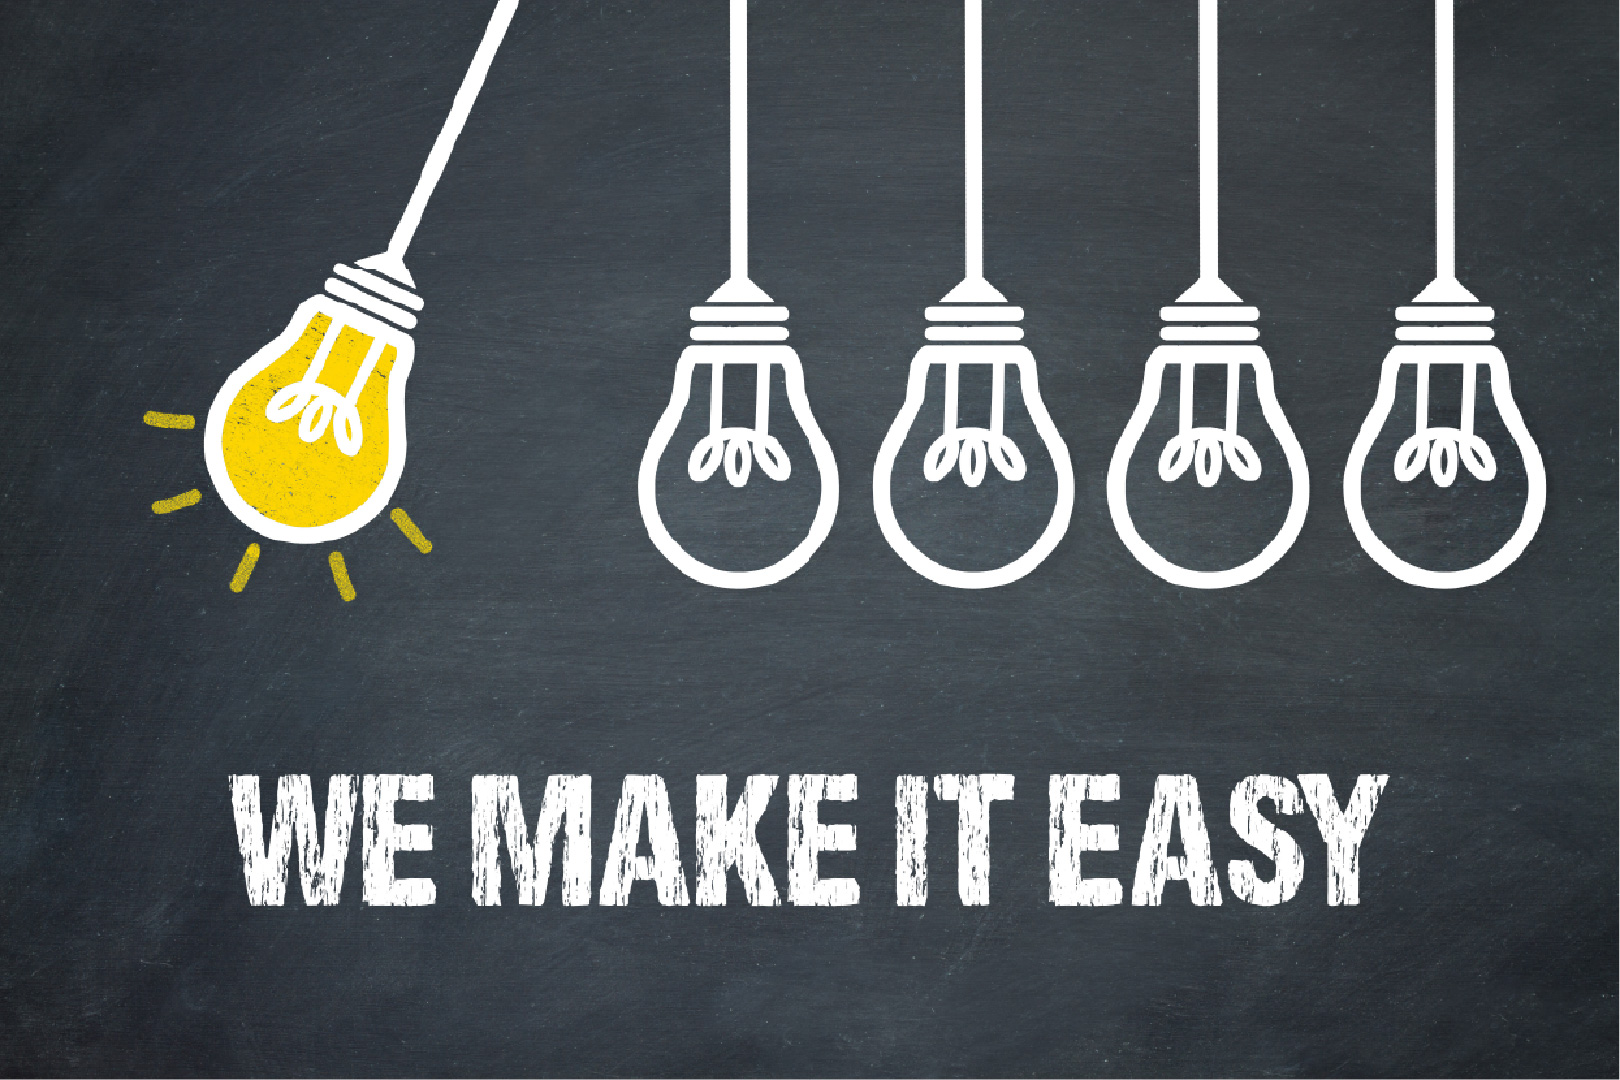
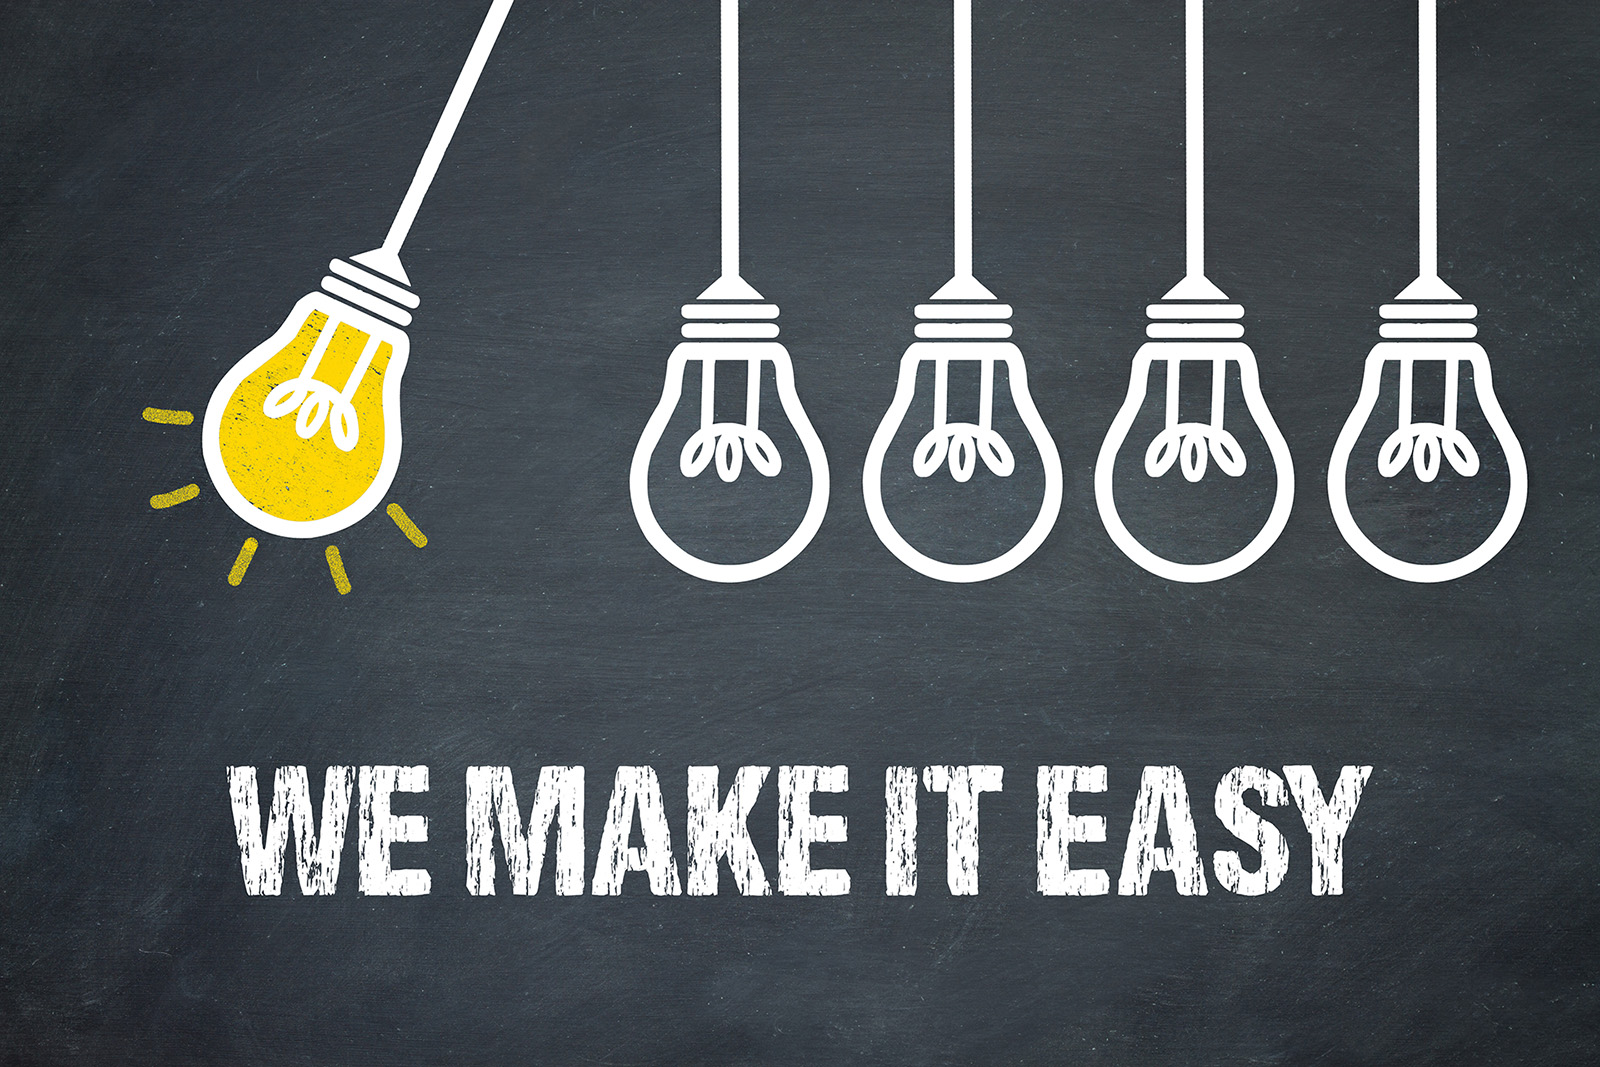
removed the projects link and also changed some of the pictures

diff --git a/index.html b/index.html
@@ -73,7 +73,7 @@
                 <ul>
                     <li><a class="active" href="/index.html">Home</a></li>
                     <li><a href="/about.html">About Us</a></li>
-                    <li><a href="/projects.html">Projects</a></li>
+                    <!-- <li><a href="/projects.html">Projects</a></li> -->
                     <!-- <li><a href="/reviews.html">Reviews</a></li> -->
                     <li><a href="/contact.html">Contact</a></li>
                 </ul>
@@ -158,44 +158,36 @@ Protect your data with secure, automated cloud backups that ensure your files ar
         <section id="sidebyside" class="sidebyside">
             <div class="container">
                 <div class="content">
-                    <h2 class="title">Trusted home builders for (main city) for over 20 years</h2>
-                     <p>
-                         Lorem ipsum dolor sit amet consectetur adipisicing elit. Quibusdam debitis dolor consectetur dolorem inventore modi tenetur ex odit, amet beatae ad, doloribus tempora quae ab nulla minus temporibus at veritatis!
-                     </p>
-                     <p>
-                         <strong>A list if you need it:</strong>
-                      </p>
-                     <ul>
+                    <h2>Trusted IT Support for Uniontown and Fayette County</h2>
+                        <p>
+                            Lancaster IT Services provides dependable technology support for homes and small businesses across Uniontown and the surrounding area. We help clients with computer setup, Wi-Fi and network issues, device troubleshooting, phone and telecom needs, cloud backups, and everyday tech support.
+                        </p>
+                        <ul>
                         <li>
                             <img aria-hidden="true" loading="lazy" decoding="async" src="/images/check.svg" alt="check mark" width="20" height="20">
-                            <span>List item about something, this one is going to two lines so you can see what it looks like</span>
-                        </li>
+                            Fast, friendly local service</li>
                         <li>
                             <img aria-hidden="true" loading="lazy" decoding="async" src="/images/check.svg" alt="check mark" width="20" height="20">
-                            <span>List item about something</span>
-                        </li>
+                            Residential and small business support</li>
                         <li>
                             <img aria-hidden="true" loading="lazy" decoding="async" src="/images/check.svg" alt="check mark" width="20" height="20">
-                            <span>List item about something</span>
-                        </li>
+                            Network, Wi-Fi, and device troubleshooting</li>
                         <li>
                             <img aria-hidden="true" loading="lazy" decoding="async" src="/images/check.svg" alt="check mark" width="20" height="20">
-                            <span>List item about something</span>
-                        </li>
+                            Cloud backup and data protection</li>
                         <li>
                             <img aria-hidden="true" loading="lazy" decoding="async" src="/images/check.svg" alt="check mark" width="20" height="20">
-                            <span>List item about something</span>
-                        </li>
-                    </ul>
-                     <p>
-                         Lorem ipsum dolor sit amet consectetur adipisicing elit. Accusantium saepe laborum nam consequuntur porro inventore odio? Quod autem alias ratione cum reiciendis qui quaerat, sequi voluptatum voluptatibus, iusto itaque sed ullam. Quis, maiores corrupti. Rerum quo laudantium vero magnam tempora!
-                     </p>
+                            Practical solutions without the jargon</li>
+                        </ul>
+                    <p>
+                    Our goal is simple: make technology easier to use, more secure, and less stressful. Whether you need ongoing IT help or a one-time fix, we deliver reliable service you can count on.
+                    </p>
                      <a class="button-solid" href="/about.html">More About Us</a>
                 </div>
                 <picture class="image-box">
-                      <source media="(max-width: 600px)" srcset="/images/cabinets2-m.jpg">
-                     <source media="(min-width: 601px)" srcset="/images/jenga.webp">
-                     <img aria-hidden="true" loading="lazy" decoding="async" src="/images/jenga.webp" alt="cabinets" width="400" height="662">
+                      <source media="(max-width: 600px)" srcset="/images/it_comm_left_frontpage.webp">
+                     <source media="(min-width: 601px)" srcset="/images/it_comm_left_frontpage.webp">
+                     <img aria-hidden="true" loading="lazy" decoding="async" src="/images/it_comm_left_frontpage.webp" alt="where it and communications meet" width="400" height="662">
                  </picture>
             </div>
        </section>
@@ -207,42 +199,36 @@ Protect your data with secure, automated cloud backups that ensure your files ar
         <section id="sidebyside-reverse">
             <div class="container">
                 <div class="content">
-                    <h2 class="title">Extra content, maybe talk about a main service</h2>
-                     <p>
-                         Lorem ipsum dolor sit amet consectetur adipisicing elit. Quibusdam debitis dolor consectetur dolorem inventore modi tenetur ex odit, amet beatae ad, doloribus tempora quae ab nulla minus temporibus at veritatis!
-                     </p>
-                     <p>
-                         <strong>A list if you need it:</strong>
-                      </p>
-                     <ul>
-                        <li>
-                            <img aria-hidden="true" loading="lazy" decoding="async" src="/images/check.svg" alt="check mark" width="20" height="20">
-                            <span>List item about something</span>
-                        </li>
-                        <li>
-                            <img aria-hidden="true" loading="lazy" decoding="async" src="/images/check.svg" alt="check mark" width="20" height="20">
-                            <span>List item about something</span>
-                        </li>
-                        <li>
-                            <img aria-hidden="true" loading="lazy" decoding="async" src="/images/check.svg" alt="check mark" width="20" height="20">
-                            <span>List item about something</span>
-                        </li>
-                        <li>
-                            <img aria-hidden="true" loading="lazy" decoding="async" src="/images/check.svg" alt="check mark" width="20" height="20">
-                            <span>List item about something</span>
-                        </li>
-                        <li>
-                            <img aria-hidden="true" loading="lazy" decoding="async" src="/images/check.svg" alt="check mark" width="20" height="20">
-                            <span>List item about something</span>
-                        </li>
+                   <h2>IT Solutions That Keep You Connected</h2>
+                    <p>
+                    From office networks to home technology, we provide IT services built around reliability, security, and peace of mind. We focus on solving problems quickly and setting your systems up the right way so you can stay productive.
+                    </p>
+
+                    <ul>
+                    <li>
+                        <img aria-hidden="true" loading="lazy" decoding="async" src="/images/check.svg" alt="check mark" width="20" height="20">
+                        Computer and device setup</li>
+                    <li>
+                        <img aria-hidden="true" loading="lazy" decoding="async" src="/images/check.svg" alt="check mark" width="20" height="20">
+                        Business network support</li>
+                    <li>
+                        <img aria-hidden="true" loading="lazy" decoding="async" src="/images/check.svg" alt="check mark" width="20" height="20">
+                        Residential Wi-Fi optimization</li>
+                    <li>
+                        <img aria-hidden="true" loading="lazy" decoding="async" src="/images/check.svg" alt="check mark" width="20" height="20">
+                        Cloud backup solutions</li>
+                    <li>
+                        <img aria-hidden="true" loading="lazy" decoding="async" src="/images/check.svg" alt="check mark" width="20" height="20">
+                        Telephone and telecom assistance</li>
                     </ul>
-                     <p>
-                         Lorem ipsum dolor sit amet consectetur adipisicing elit. Accusantium saepe laborum nam consequuntur porro inventore odio? Quod autem alias ratione cum reiciendis qui quaerat, sequi voluptatum voluptatibus, iusto itaque sed ullam. Quis, maiores corrupti. Rerum quo laudantium vero magnam tempora!
-                     </p>
+
+                    <p>
+                    We believe good IT service should be responsive, honest, and easy to understand. Lancaster IT Services gives you local support with practical recommendations that fit your needs and budget.
+                    </p>
                      <a class="button-solid" href="/contact.html">Get Free Quote</a>
                 </div>
                 <picture class="image-box">
-                     <source media="(max-width: 600px)" srcset="/images/we_make_it_easy-m.jpg">
+                     <source media="(max-width: 600px)" srcset="/images/laptop.webp">
                      <source media="(min-width: 601px)" srcset="/images/laptop.webp">
                      <img aria-hidden="true" loading="lazy" decoding="async" src="/images/laptop.webp" alt="cabinets" width="400" height="662">
                  </picture>
@@ -260,8 +246,8 @@ Protect your data with secure, automated cloud backups that ensure your files ar
             </div>
             <picture>
                 <source media="(max-width: 600px)" srcset="/images/we_make_it_easy.jpg">
-                <source media="(min-width: 601px)" srcset="/images/we_make_it_easy.jpg">
-                <img aria-hidden="true" loading="lazy" decoding="async" src="/images/we_make_it_easy.jpg" alt="we make it easy" width="1920" height="1280">
+                <source media="(min-width: 601px)" srcset="/images/we_make_it_easy.webp">
+                <img aria-hidden="true" loading="lazy" decoding="async" src="/images/we_make_it_easy.webp" alt="we make it easy" width="1920" height="1280">
              </picture>
         </section>
     </main>
@@ -281,7 +267,7 @@ Protect your data with secure, automated cloud backups that ensure your files ar
                         <li><h2>Information</h2></li>
                         <li><a href="/index.html">Home</a></li>
                         <li><a href="/about.html">About Us</a></li>
-                        <li><a href="/projects.html">Projects</a></li>
+                        <!-- <li><a href="/projects.html">Projects</a></li> -->
                         <!-- <li><a href="/testimonials.html">Reviews</a></li> -->
                         <li><a href="/contact.html">Contact</a></li>
                     </ul>

diff --git a/about.html b/about.html
@@ -67,7 +67,7 @@
                 <ul>
                     <li><a href="/index.html">Home</a></li>
                     <li><a class="active" href="/about.html">About Us</a></li>
-                    <li><a href="/projects.html">Projects</a></li>
+                    <!-- <li><a href="/projects.html">Projects</a></li> -->
                     <!-- <li><a href="/reviews.html">Reviews</a></li> -->
                     <li><a href="/contact.html">Contact</a></li>
                 </ul>
@@ -142,7 +142,7 @@
                         <li><h2>Information</h2></li>
                         <li><a href="/index.html">Home</a></li>
                         <li><a href="/about.html">About Us</a></li>
-                        <li><a href="/projects.html">Projects</a></li>
+                        <!-- <li><a href="/projects.html">Projects</a></li> -->
                         <!-- <li><a href="/testimonials.html">Reviews</a></li> -->
                         <li><a href="/contact.html">Contact</a></li>
                     </ul>

diff --git a/contact.html b/contact.html
@@ -67,7 +67,7 @@
                 <ul>
                     <li><a href="/index.html">Home</a></li>
                     <li><a href="/about.html">About Us</a></li>
-                    <li><a href="/projects.html">Projects</a></li>
+                    <!-- <li><a href="/projects.html">Projects</a></li> -->
                     <!-- <li><a href="/reviews.html">Reviews</a></li> -->
                     <li><a class="active" href="/contact.html">Contact</a></li>
                 </ul>
@@ -185,7 +185,7 @@
                         <li><h2>Information</h2></li>
                         <li><a href="/index.html">Home</a></li>
                         <li><a href="/about.html">About Us</a></li>
-                        <li><a href="/projects.html">Projects</a></li>
+                        <!-- <li><a href="/projects.html">Projects</a></li> -->
                         <!-- <li><a href="/testimonials.html">Reviews</a></li> -->
                         <li><a href="/contact.html">Contact</a></li>
                     </ul>
